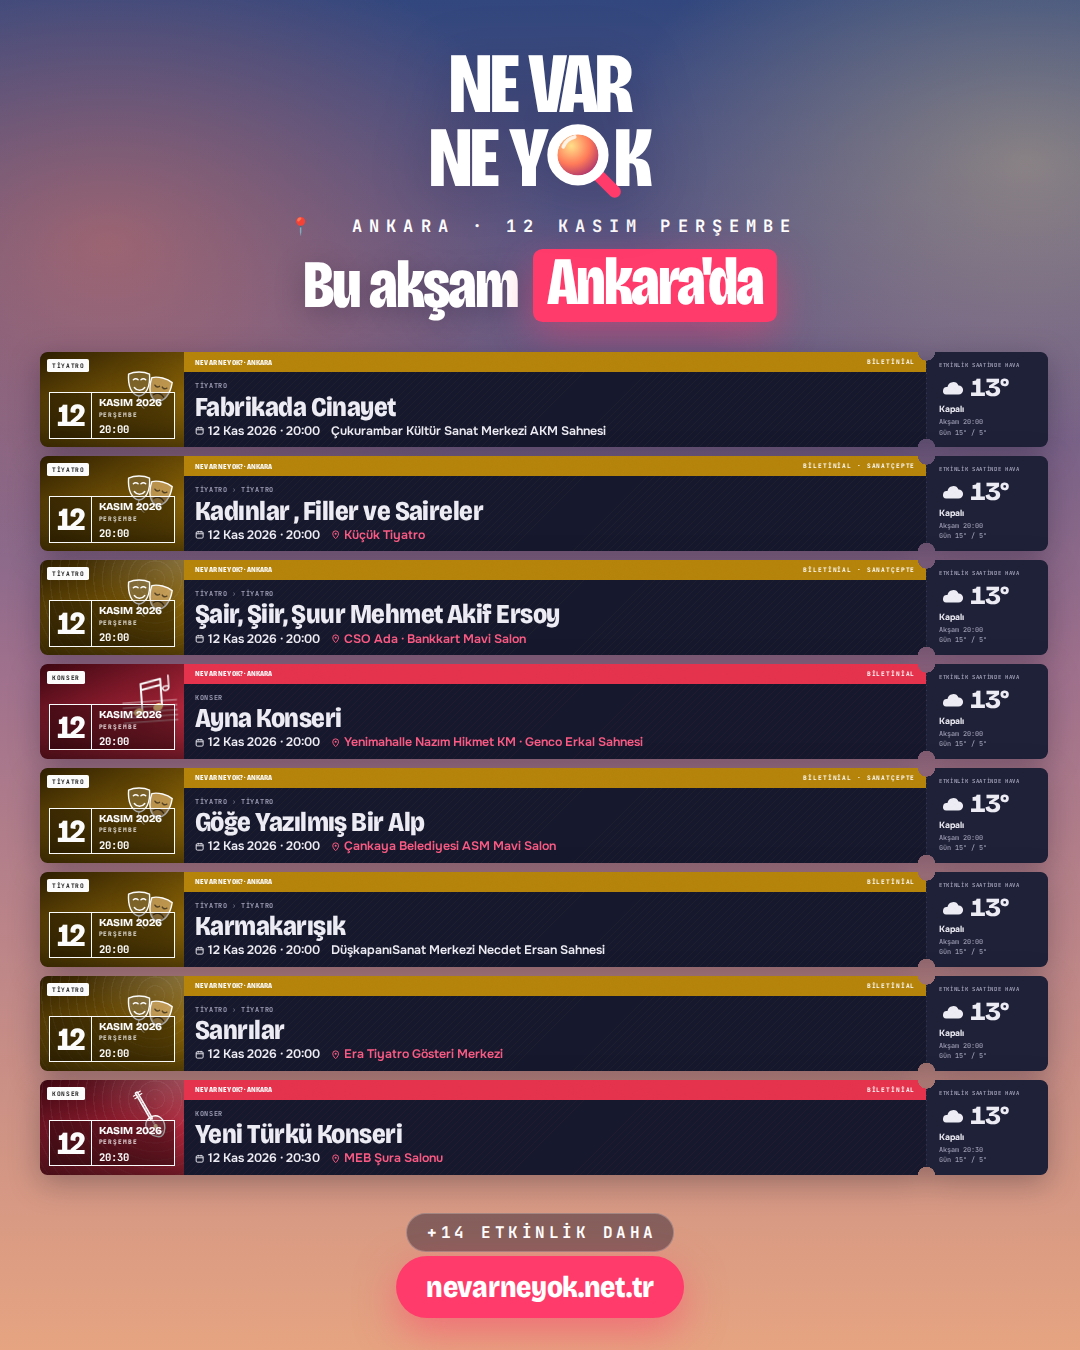
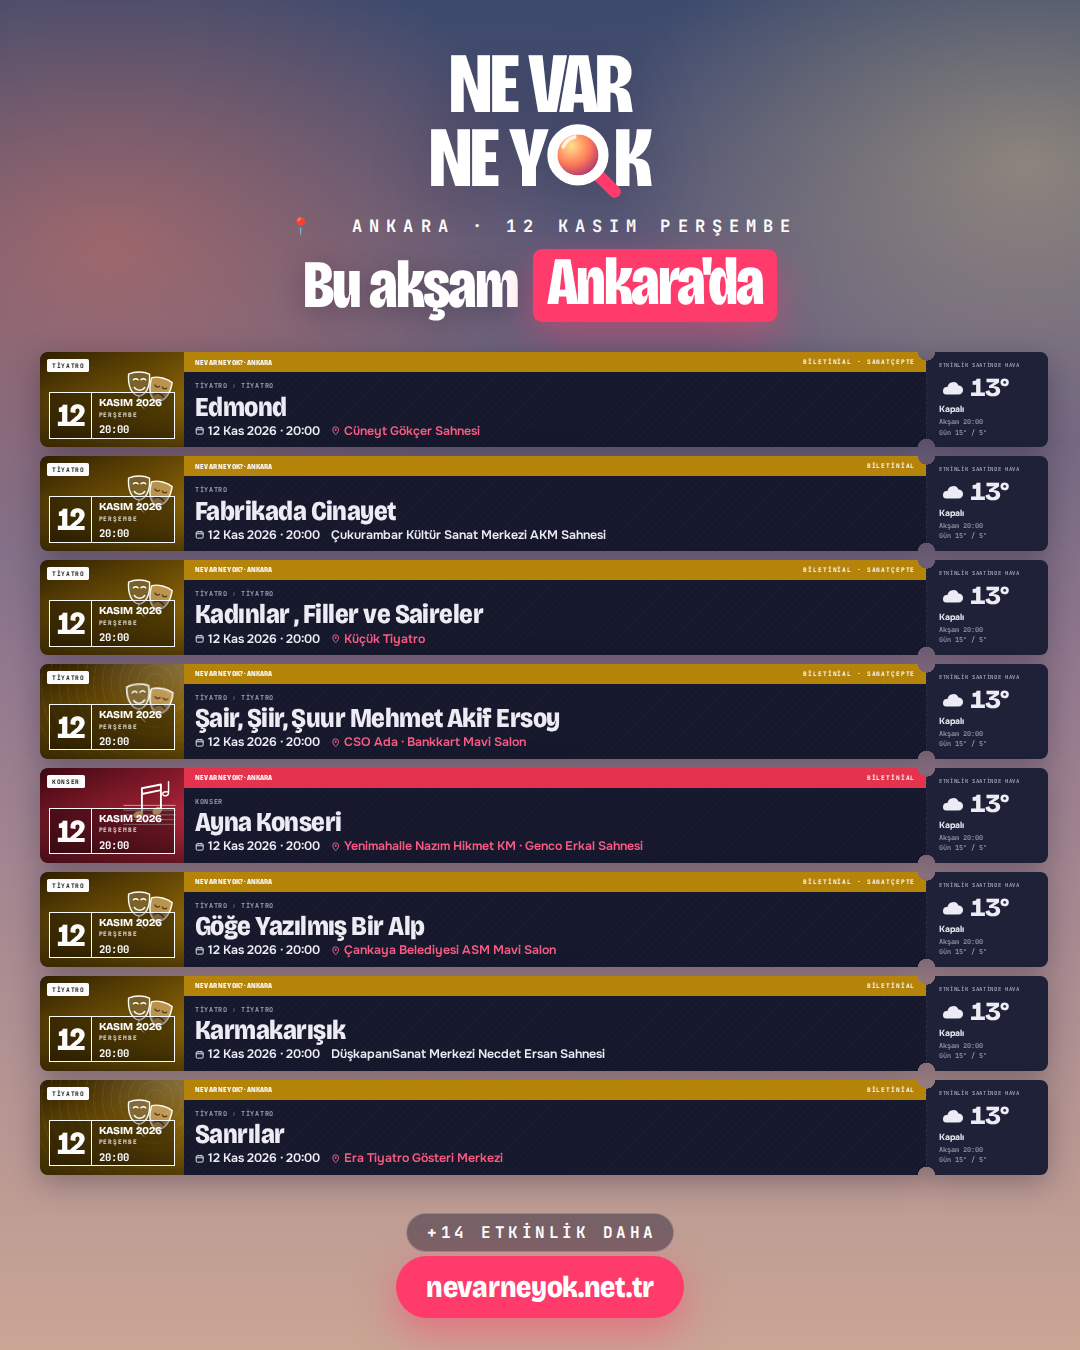
Instagram görselleri: 2026-11-12

diff --git a/2026-11-12/index.html b/2026-11-12/index.html
@@ -16,10 +16,10 @@ Bugün Ankara&#39;da! 12 Kasım Perşembe
 🎨 18:00 · Sokratin ile Kitap Kulübü (12 Ay, 12 Başyapıt) — One Tower Business Club
 🎨 19:00 · Heykel - Hedwig — Masterpiece Ankara
 🎨 19:00 · Kurtlar Vadisi Quiz Night — Coffee Up Bahçelievler
-🎭 20:00 · Orhan Veli - Garip — Çayyolu Sahne
+🩰 20:00 · Coppelia — Opera Sahnesi
+🎭 20:00 · Orhan Veli (Garip) — Çayyolu Sahne
 🎭 20:00 · Bir İdam Mahkumunun Son Günü - Süleyman Ceylan — AKM Sahne Kızılay
 🎭 20:00 · Bu da Geçer ya Hu — Şinasi Sahnesi
-🎭 20:00 · Edmond — Cüneyt Gökçer Sahnesi
 
 Bugün Ankara&#39;da 23 etkinlik var. Hepsini saat, mekân ve bilet bağlantılarıyla görmek için: nevarneyok.net.tr (profildeki bağlantıda)
 
@@ -27,11 +27,12 @@ Bugün Ankara&#39;da 23 etkinlik var. Hepsini saat, mekân ve bilet bağlantıla
 👥 Birlikte gitmek istediğin kişiyi etiketle!
 🔔 Her gün güncel Ankara etkinlikleri için takipte kal.
 
-#ankara #ankaraetkinlik #ankarakonser #ankaratiyatro #başkent #neyapsam #ankaradabugün #çocuketkinliği #atölye #tiyatro</textarea><button type="button" onclick="navigator.clipboard.writeText(document.getElementById('c0').value).then(()=>this.textContent='Kopyalandı ✓')">Metni kopyala</button></section><section><h2>15:00 · Bu akşam Ankara&#39;da · 12 Kasım Perşembe</h2><div class="imgs"><a href="aksam-1.png" download><img src="aksam-1.png" alt="Bu akşam Ankara&#39;da gonderi">Gönderi · İndir</a></div>
+#ankara #ankaraetkinlik #ankarakonser #ankaratiyatro #başkent #neyapsam #ankaradabugün #çocuketkinliği #atölye #opera #bale #tiyatro</textarea><button type="button" onclick="navigator.clipboard.writeText(document.getElementById('c0').value).then(()=>this.textContent='Kopyalandı ✓')">Metni kopyala</button></section><section><h2>15:00 · Bu akşam Ankara&#39;da · 12 Kasım Perşembe</h2><div class="imgs"><a href="aksam-1.png" download><img src="aksam-1.png" alt="Bu akşam Ankara&#39;da gonderi">Gönderi · İndir</a></div>
 <textarea id="c1" readonly>Bu akşam ne yapsam diyenler, buraya 👇
 
 Bu akşam Ankara&#39;da! 12 Kasım Perşembe
 
+🎭 20:00 · Edmond — Cüneyt Gökçer Sahnesi
 🎭 20:00 · Fabrikada Cinayet — Çukurambar Kültür Sanat Merkezi AKM Sahnesi
 🎭 20:00 · Kadınlar , Filler ve Saireler — Küçük Tiyatro
 🎭 20:00 · Şair, Şiir, Şuur Mehmet Akif Ersoy — CSO Ada · Bankkart Mavi Salon
@@ -39,7 +40,6 @@ Bu akşam Ankara&#39;da! 12 Kasım Perşembe
 🎭 20:00 · Göğe Yazılmış Bir Alp — Çankaya Belediyesi ASM Mavi Salon
 🎭 20:00 · Karmakarışık — DüşkapanıSanat Merkezi Necdet Ersan Sahnesi
 🎭 20:00 · Sanrılar — Era Tiyatro Gösteri Merkezi
-🎶 20:30 · Yeni Türkü Konseri — MEB Şura Salonu
 
 Bu akşam Ankara&#39;da 22 etkinlik var. Hepsini saat, mekân ve bilet bağlantılarıyla görmek için: nevarneyok.net.tr (profildeki bağlantıda)
 
